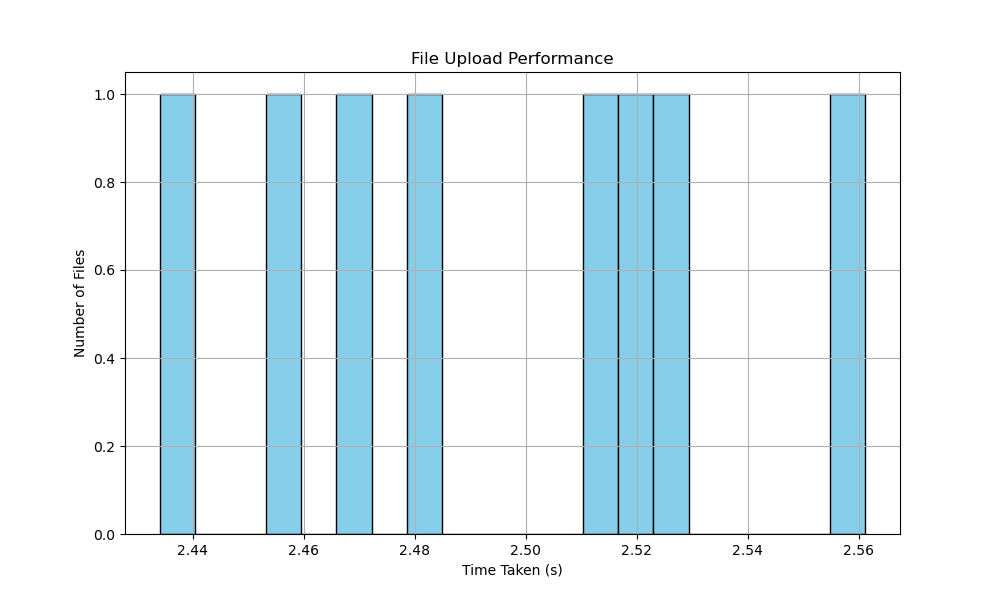
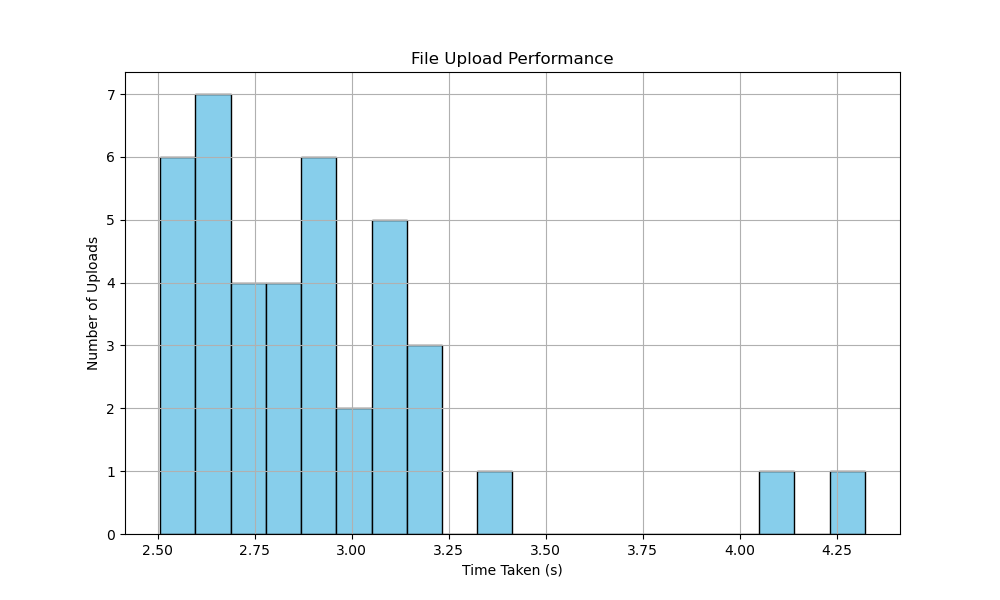
includes testing

diff --git a/tesing.py b/tesing.py
@@ -5,6 +5,7 @@ import os
 import time
 import random
 import matplotlib.pyplot as plt
+import datetime
 
 # Directory containing your .wav files
 FILES_DIR = 'Testing files'
@@ -39,13 +40,16 @@ def upload_random_file(_):
     return end_time - start_time  # Return the time taken for upload
 
 # Number of uploads to perform
-num_uploads = 10
+num_uploads = 40
 
 # Use ThreadPoolExecutor to upload files in parallel
 times_taken = []
-with ThreadPoolExecutor(max_workers=5) as executor:
+with ThreadPoolExecutor(max_workers=10) as executor:
     results = executor.map(upload_random_file, range(num_uploads))
     times_taken = list(results)
+
+current_timestamp = datetime.datetime.now().strftime("%Y%m%d-%H%M%S")
+filename = f'/mnt/data/upload_performance_{current_timestamp}.png'
 
 # Plotting the results
 plt.figure(figsize=(10, 6))
@@ -54,5 +58,5 @@ plt.title('File Upload Performance')
 plt.xlabel('Time Taken (s)')
 plt.ylabel('Number of Uploads')
 plt.grid(True)
-plt.savefig('/upload_performance.png')
+plt.savefig(filename)
 plt.show()
